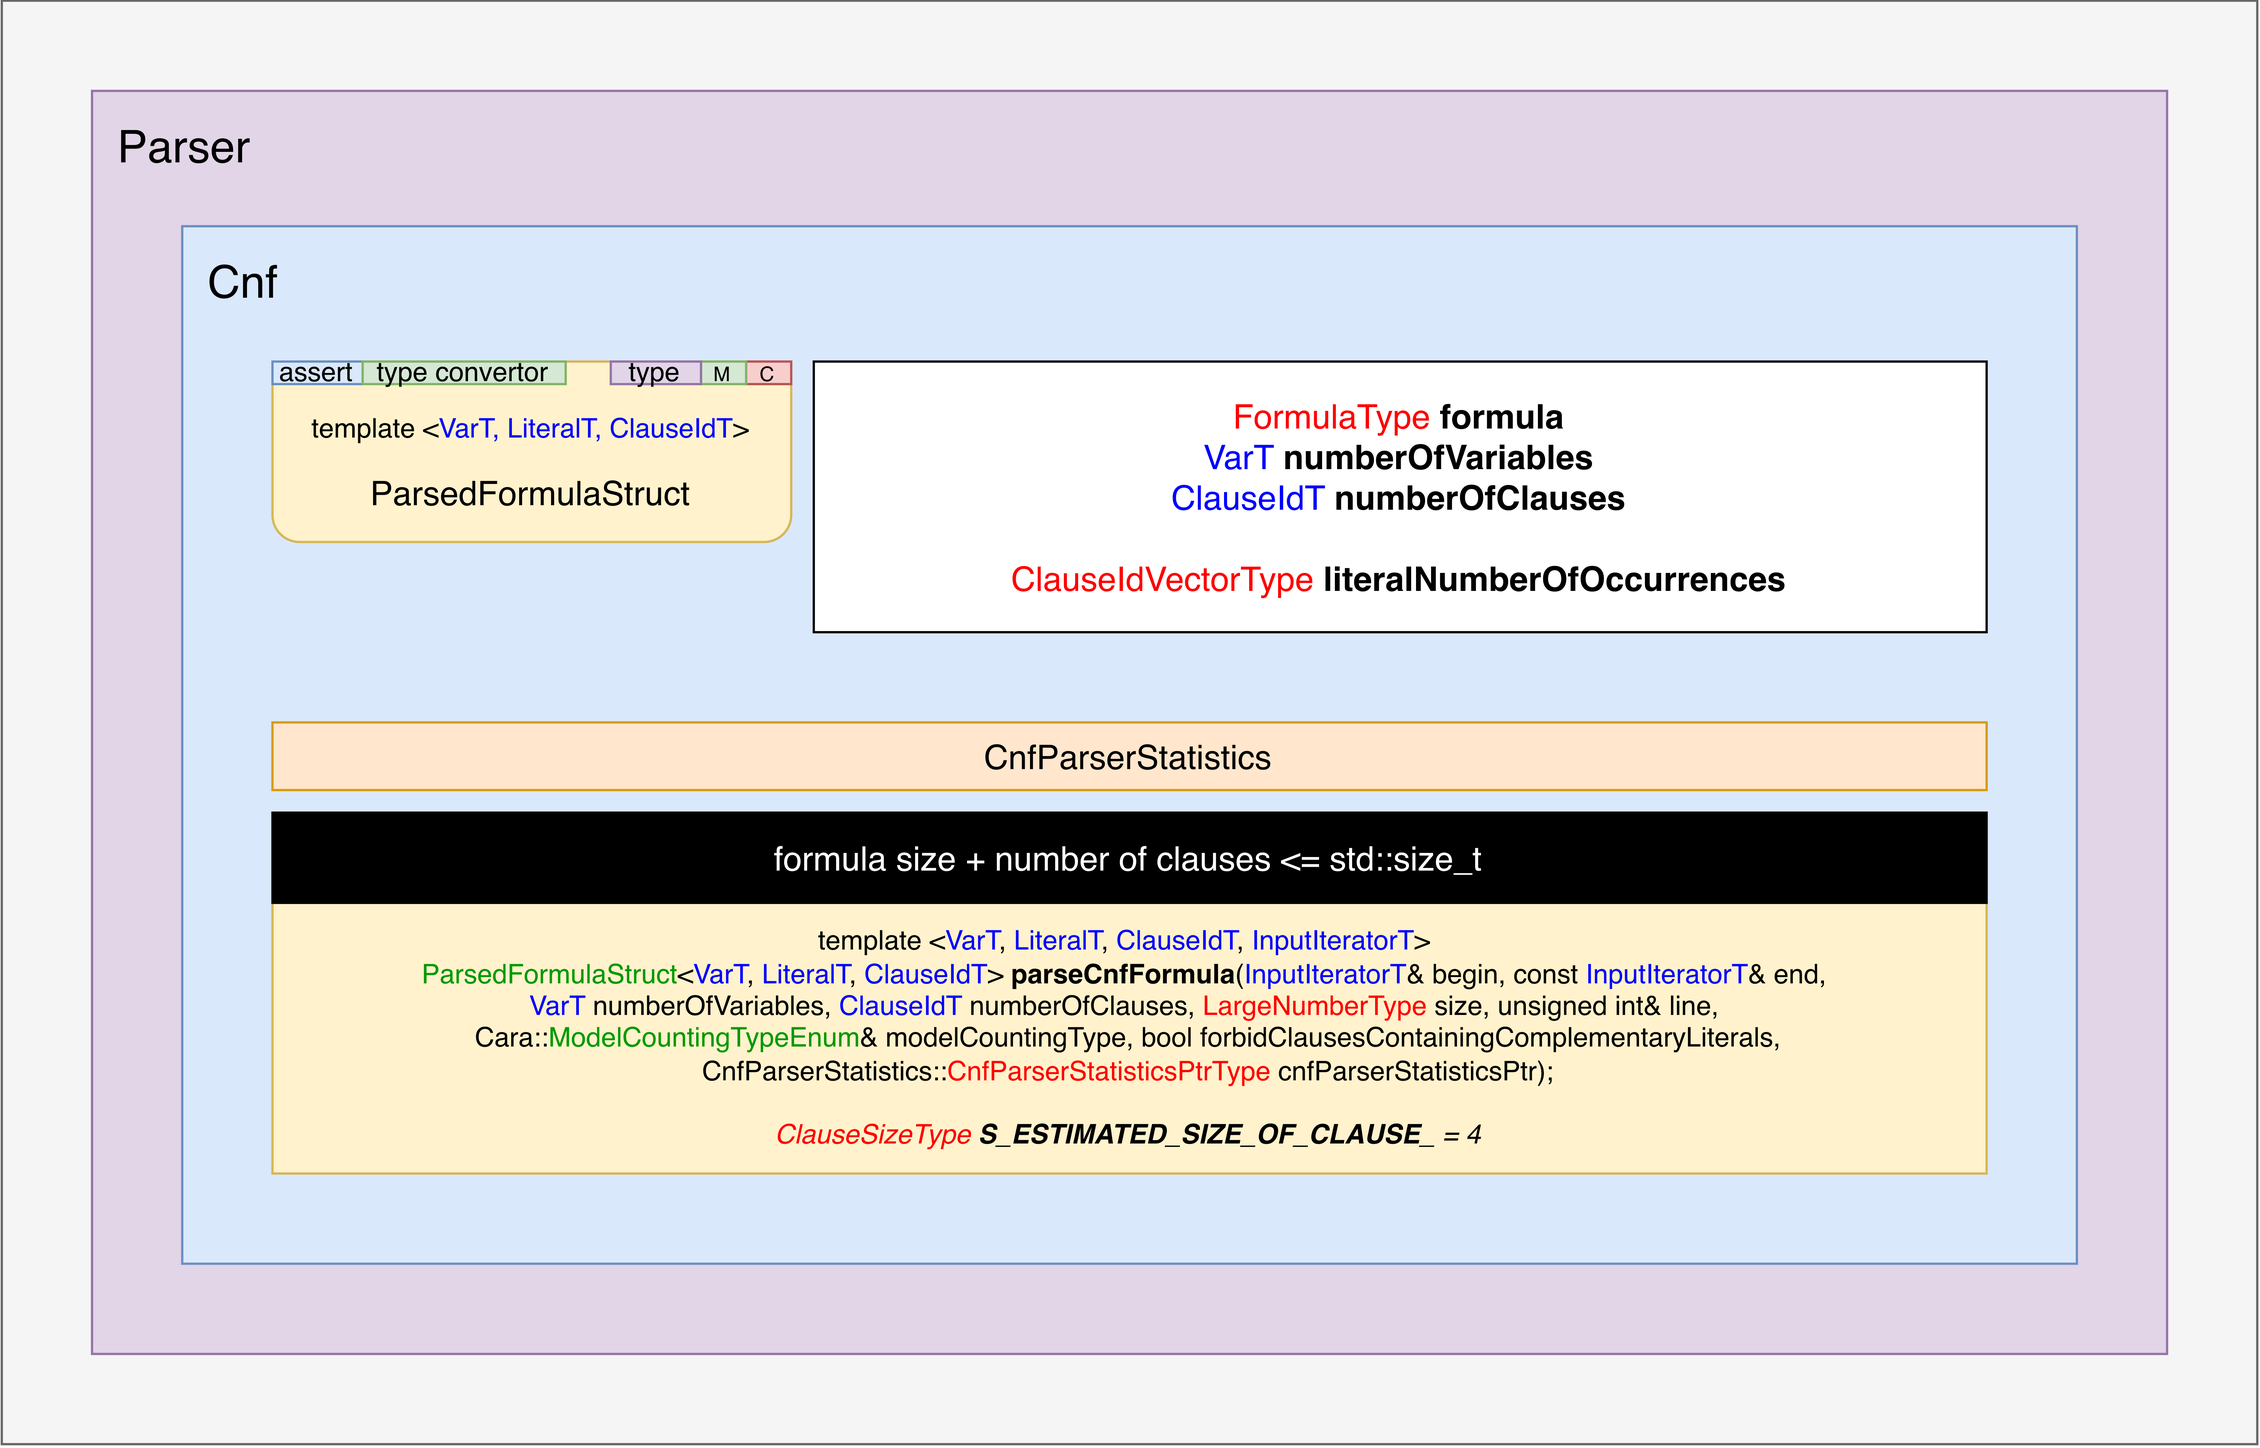
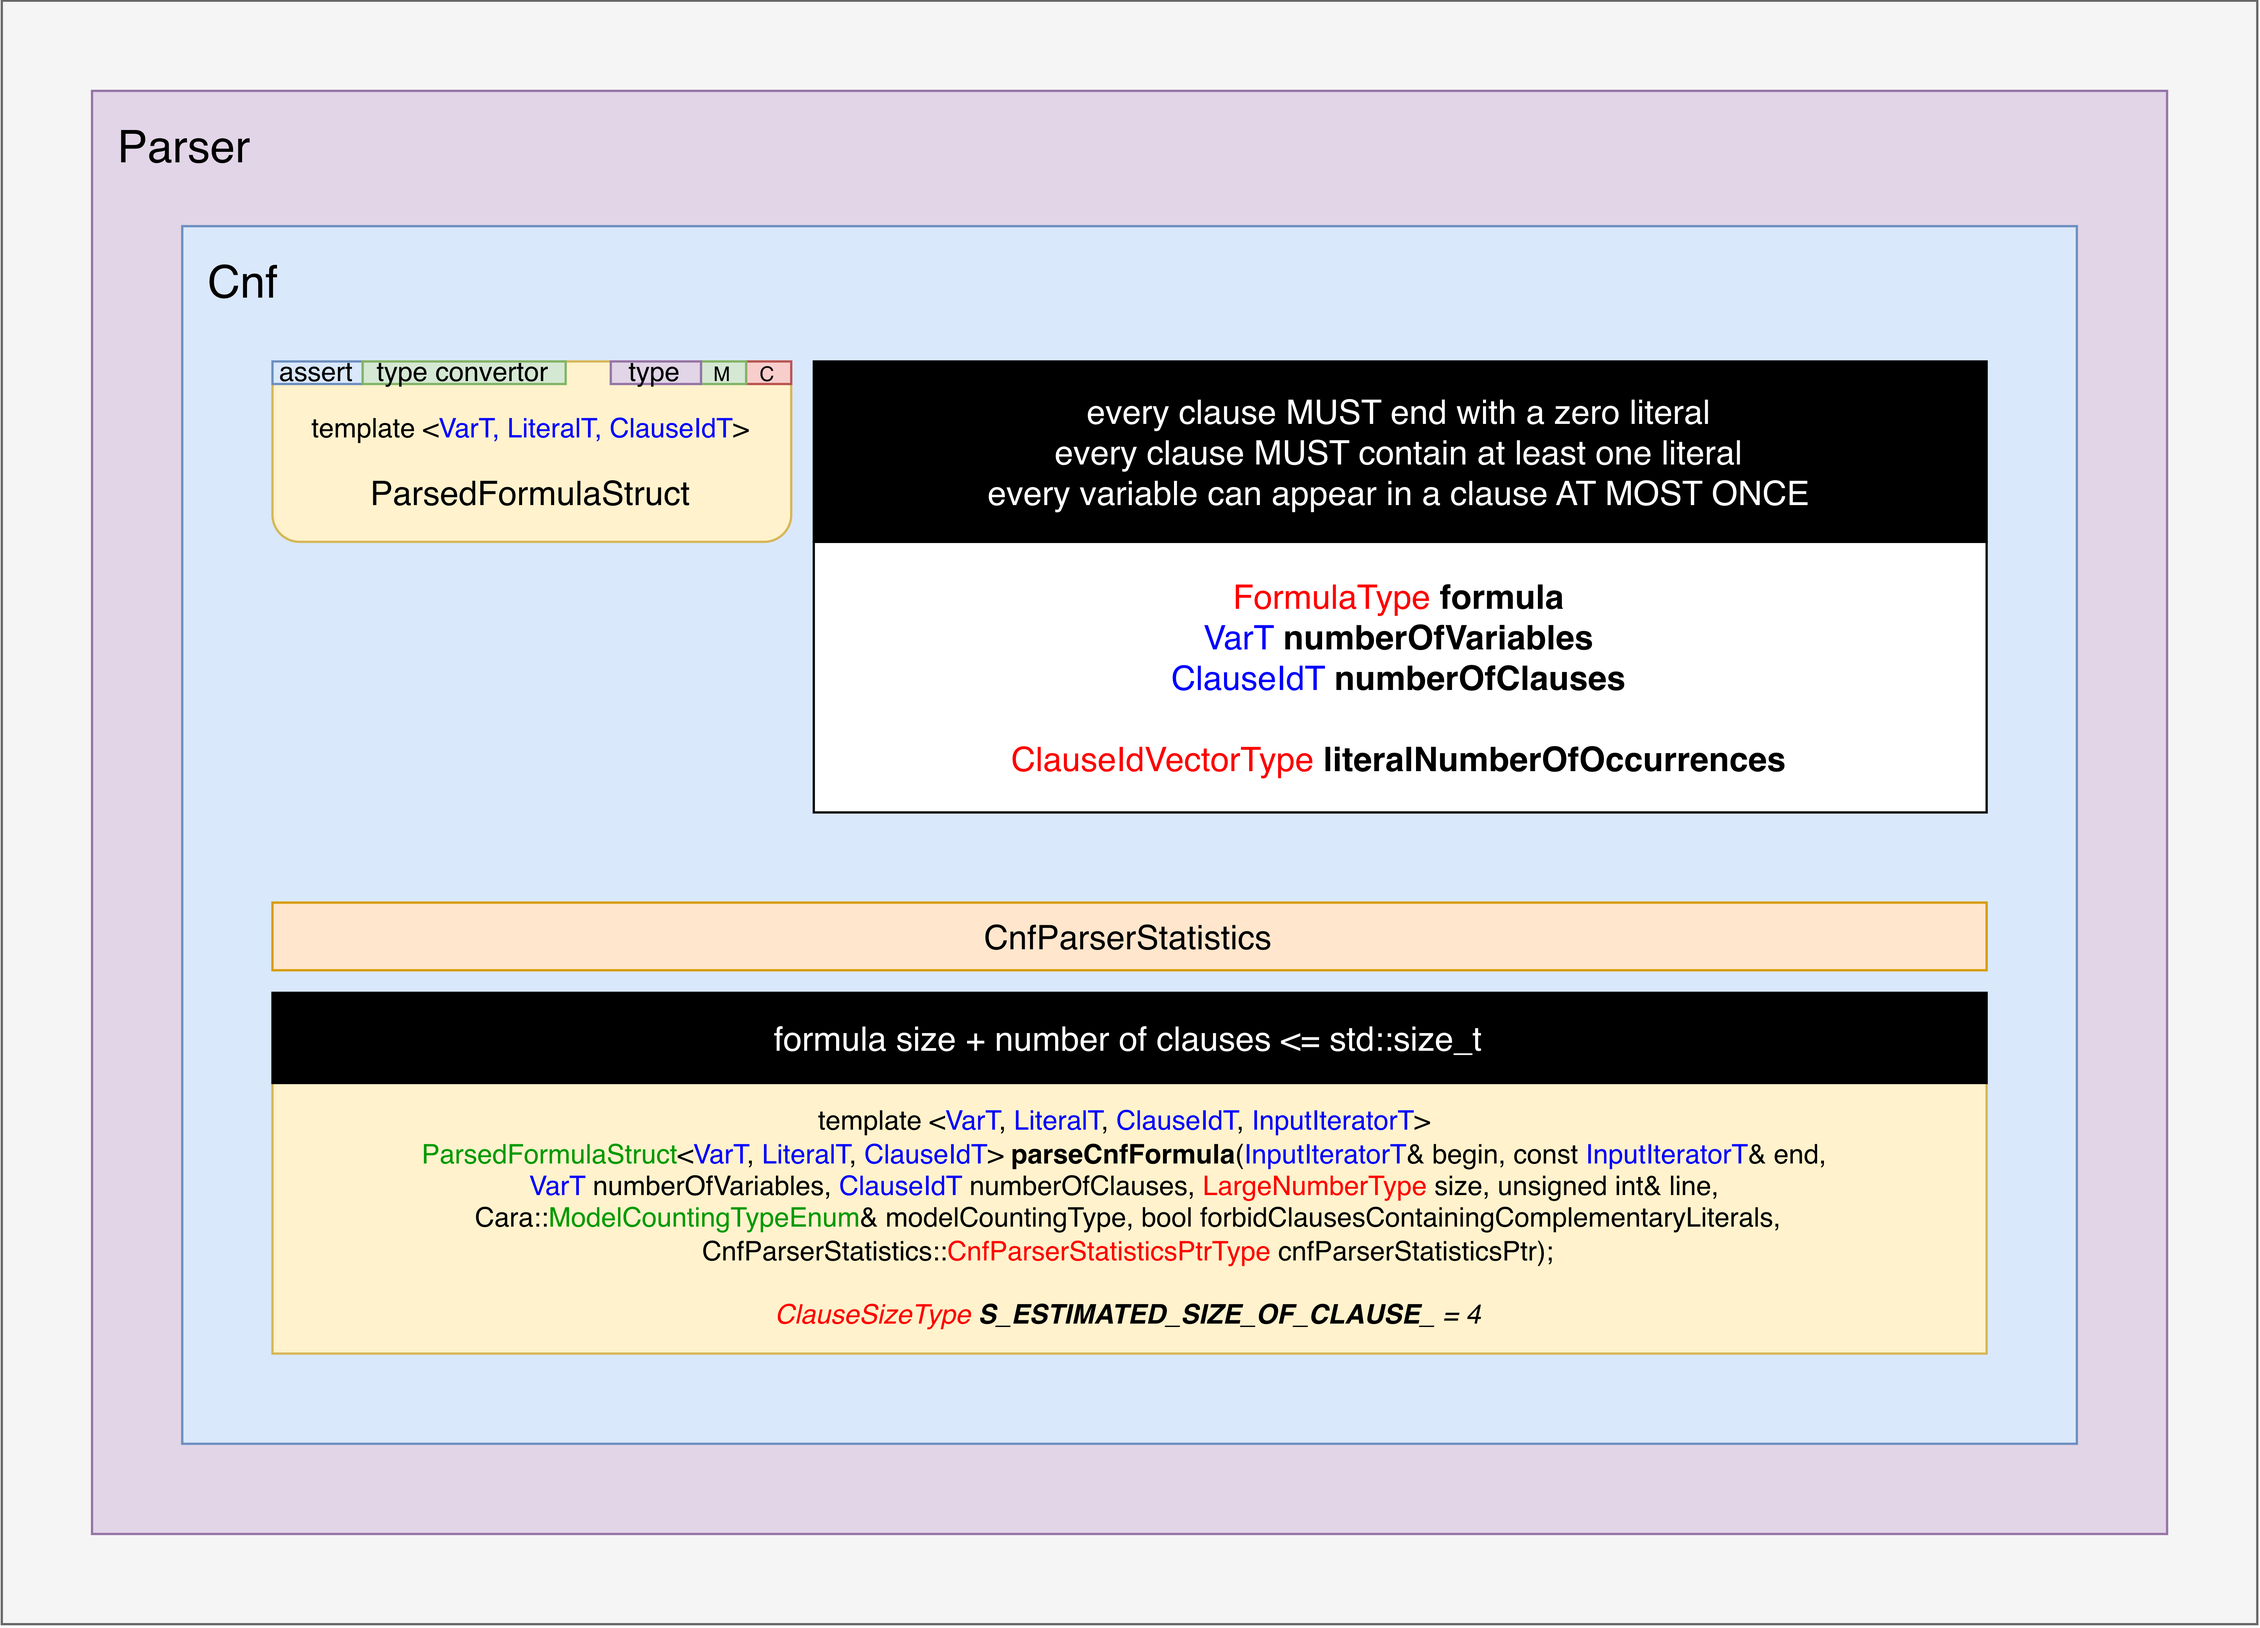
Add new invariants to checkConsistencyOfDataStructuresDebug in ParsedFormulaStructure

diff --git a/Hydra/parser/cnf/ParsedFormulaStructure.hpp b/Hydra/parser/cnf/ParsedFormulaStructure.hpp
@@ -12,6 +12,11 @@ namespace Hydra::Parser::Cnf {
     /**
      * Parsed formula structure
      * Copy methods are disabled! Move methods (default) are allowed!
+     * Invariant: every clause MUST end with a zero literal
+     * Invariant: every clause MUST contain at least one literal
+     * Invariant: every variable can appear in a clause AT MOST ONCE
+     * Exception:
+     *      InconsistentDataStructureException (debug)
      * @tparam VarT type used for a variable
      * @tparam LiteralT type used for a literal
      * @tparam ClauseIdT type used for a clause identifier
